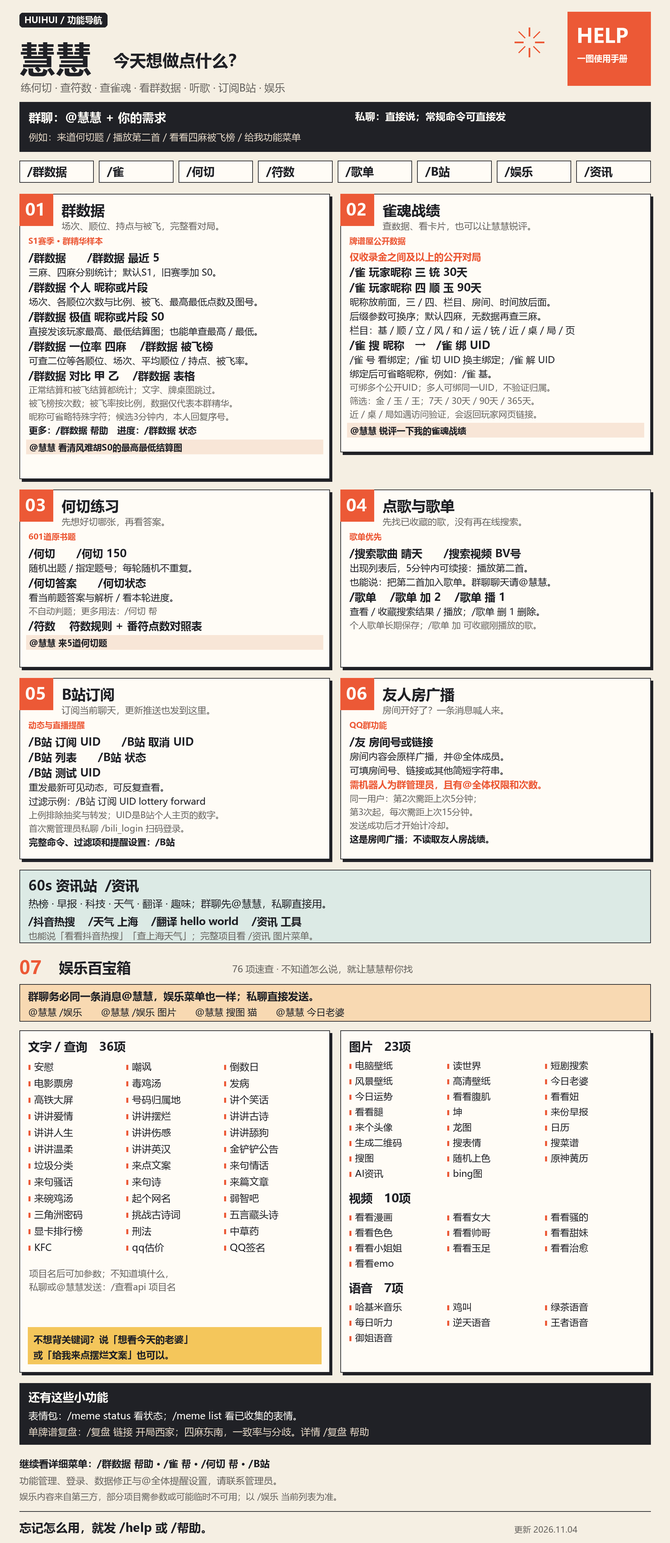
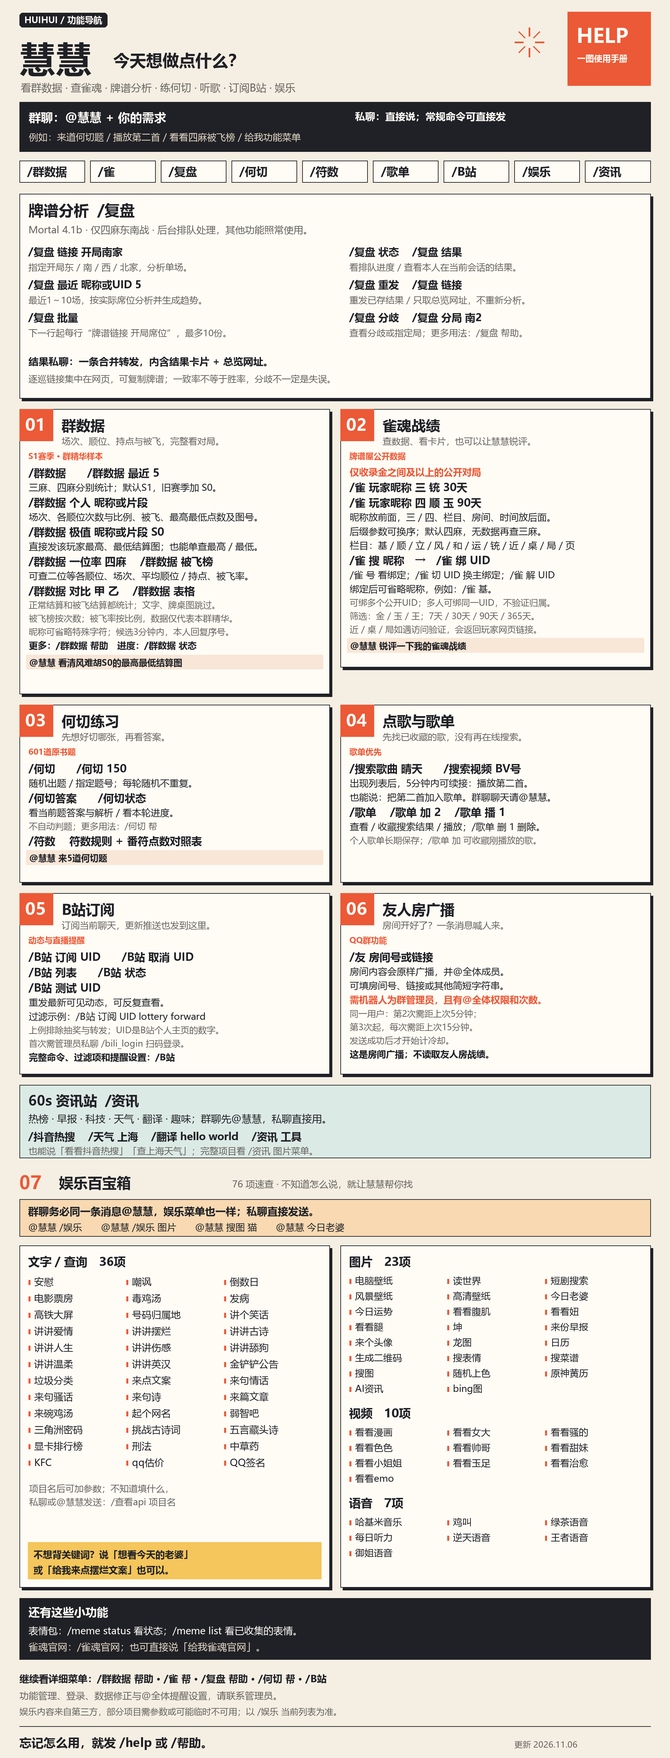
feat: unify single replay delivery and update help poster

diff --git a/replay_pages.py b/replay_pages.py
@@ -9,6 +9,13 @@ from .replay_core import ReplayError,summarize,report_url,hand_name
 def esc(value):return html.escape(str(value),quote=True)
 def stamp(value):return datetime.fromtimestamp(value,timezone(timedelta(hours=8))).strftime('%Y-%m-%d %H:%M') if value else '手动提供的牌谱'
 
+def single_batch(job):
+    """Expose one existing job without creating a batch or changing queue state."""
+    return {'id':job['id'],'scope':job['scope'],'actor':job['actor'],'single':True,
+            'label':'单牌谱复盘','ordered_by':'provided','items':[{**job,'position':1,'metadata':'{}'}],
+            'pending':int(job['status'] in ('queued','running')),'done':int(job['status']=='done'),
+            'failed':int(job['status'] not in ('queued','running','done'))}
+
 STYLE='''*{box-sizing:border-box}body{margin:0;background:#101821;color:#edf2f7;font:16px/1.6 system-ui,"Microsoft YaHei",sans-serif}main{max-width:1100px;margin:auto;padding:32px 20px 60px}header,.panel,.game{background:#1d2b38;border:1px solid #2c4050;border-radius:20px;padding:24px;margin-bottom:20px}small,.muted{color:#a1b3c5}h1{margin:5px 0 12px;font-size:30px}h2{font-size:21px;margin:0 0 12px}h3{font-size:18px;margin:0}a{color:#53d6cb;text-decoration:none}a:hover{text-decoration:underline}.badge{display:inline-block;padding:4px 12px;border-radius:20px;background:#263e4b;color:#53d6cb}.stats{display:grid;grid-template-columns:repeat(3,1fr);gap:14px;margin-top:20px}.metric{padding:14px 18px;background:#14212c;border-radius:12px}.metric b{display:block;color:#53d6cb;font-size:30px}.chart{width:100%;height:auto}.game-top{display:flex;justify-content:space-between;gap:20px;align-items:start}.rate{font-size:32px;color:#ffcc7a;white-space:nowrap}.actions{display:flex;gap:12px;flex-wrap:wrap;margin-top:15px}.button{display:inline-block;padding:9px 16px;background:#294453;border-radius:10px}.button.primary{background:#53d6cb;color:#101821;font-weight:700}table{width:100%;border-collapse:collapse;font-size:14px}th,td{text-align:left;border-bottom:1px solid #344755;padding:9px 7px}details{margin-top:20px}summary{cursor:pointer;color:#53d6cb}.scroll{overflow:auto}.decision{padding:12px 0;border-bottom:1px solid #344755}footer{font-size:13px;color:#a1b3c5}@media(max-width:600px){main{padding:16px 12px 35px}header,.panel,.game{padding:18px;border-radius:15px}.stats{gap:8px}.metric{padding:10px}.metric b{font-size:23px}h1{font-size:25px}.game-top{gap:8px}.rate{font-size:26px}}'''
 
 STYLE+='''button.button{font:inherit;border:0;color:#53d6cb;cursor:pointer}button.button:focus-visible{outline:2px solid #ffcc7a;outline-offset:3px}textarea.copy-value{width:100%;min-height:100px;resize:vertical;background:#14212c;color:#edf2f7;border:1px solid #53d6cb;border-radius:8px;padding:12px;font:inherit;word-break:break-all}#copy-status{position:fixed;bottom:22px;left:50%;transform:translateX(-50%);padding:10px 18px;background:#294453;border-radius:10px;max-width:90%;z-index:10}#copy-status:empty{display:none}[hidden]{display:none!important}'''
@@ -56,10 +63,15 @@ COPY_SCRIPT_HASH=base64.b64encode(hashlib.sha256(COPY_SCRIPT.encode('utf-8')).di
 
 def render_page(batch,data,reports):
     games=data['games'];title=data.get('label') or '多牌谱复盘'
+    single=batch.get('single',False)
+    if single and games and games[0].get('nickname'):title+=' · '+str(games[0]['nickname'])
     rate=f"{data['accordance']:.2%}" if data['accordance'] is not None else '等待结果'
     refresh='<meta http-equiv="refresh" content="30">' if data['pending'] else ''
     chunks=[f'<!doctype html><html lang="zh-CN"><head><meta charset="utf-8"><meta name="viewport" content="width=device-width,initial-scale=1"><title>{esc(title)} · 慧慧复盘</title>{refresh}<style>{STYLE}</style></head><body><main>']
-    chunks.append(f'<header><span class="badge">Mortal 4.1b</span><h1>{esc(title)}</h1><small>批次 {esc(batch["id"])} · 四麻东南战 · '+('按对局时间从早到晚' if data.get('ordered_by')=='time' else '按链接提交顺序')+f'</small><div class="stats"><div class="metric">汇总一致率<b>{rate}</b></div><div class="metric">分析完成<b>{data["done"]}/{len(games)}</b></div><div class="metric">评估决策<b>{data["total"]}</b></div></div><p class="muted">一致 {data["matches"]} / 评估 {data["total"]}；等待 {data["pending"]}，未完成 {data["failed"]}。汇总按评估决策数加权。</p></header>')
+    owner_label='任务' if single else '批次'
+    rate_label='AI一致率' if single else '汇总一致率'
+    order_label='单场完整报告' if single else ('按对局时间从早到晚' if data.get('ordered_by')=='time' else '按链接提交顺序')
+    chunks.append(f'<header><span class="badge">Mortal 4.1b</span><h1>{esc(title)}</h1><small>{owner_label} {esc(batch["id"])} · 四麻东南战 · '+order_label+f'</small><div class="stats"><div class="metric">{rate_label}<b>{rate}</b></div><div class="metric">分析完成<b>{data["done"]}/{len(games)}</b></div><div class="metric">评估决策<b>{data["total"]}</b></div></div><p class="muted">一致 {data["matches"]} / 评估 {data["total"]}；等待 {data["pending"]}，未完成 {data["failed"]}。'+('' if single else '汇总按评估决策数加权。')+'</p></header>')
     svg=['<svg class="chart" viewBox="0 0 1000 285" role="img" aria-label="逐场一致率趋势">'];previous=None
     for n in (0,25,50,75,100):
         y=230-n*2;svg.append(f'<line x1="55" y1="{y}" x2="970" y2="{y}" stroke="#344755"/><text x="8" y="{y+5}" fill="#a1b3c5" font-size="16">{n}%</text>')
@@ -69,7 +81,7 @@ def render_page(batch,data,reports):
         y=230-g['accordance']*200
         if previous:svg.append(f'<line x1="{previous[0]}" y1="{previous[1]}" x2="{x}" y2="{y}" stroke="#53d6cb" stroke-width="4"/>')
         svg.append(f'<circle cx="{x}" cy="{y}" r="6" fill="#ffcc7a"/><text x="{x}" y="{y-13}" text-anchor="middle" fill="#edf2f7" font-size="16">{g["accordance"]:.1%}</text>');previous=x,y
-    chunks.append('<section class="panel"><h2>逐场一致率趋势</h2>'+''.join(svg)+'</svg><small>横轴序号与下方对局一致；各场完整详情可展开查看。</small></section>')
+    if not single:chunks.append('<section class="panel"><h2>逐场一致率趋势</h2>'+''.join(svg)+'</svg><small>横轴序号与下方对局一致；各场完整详情可展开查看。</small></section>')
     statuses={'queued':'排队中','running':'正在分析','failed':'未完成','cancelled':'已取消','manual':'等待验证'}
     for g,job in zip(games,batch['items']):
         number=g['position'];rating=f'{g["accordance"]:.2%}' if 'accordance' in g else statuses.get(g['status'],g['status'])
@@ -84,7 +96,7 @@ def render_page(batch,data,reports):
         chunks.append(f'<noscript><details><summary>手动复制牌谱</summary><textarea class="copy-value" readonly aria-label="完整牌谱链接">{esc(g["url"])}</textarea></details></noscript>')
         report=reports.get(g['job_id'])
         if report:
-            chunks.append('<details><summary>展开分局数据与重点决策</summary><div class="scroll"><table><thead><tr><th>局数</th><th>一致 / 评估</th><th>一致率</th></tr></thead><tbody>')
+            chunks.append('<details'+(' open' if single else '')+'><summary>展开分局数据与重点决策</summary><div class="scroll"><table><thead><tr><th>局数</th><th>一致 / 评估</th><th>一致率</th></tr></thead><tbody>')
             for h in report['hands']:
                 value=f"{h['matches']/h['total']:.1%}" if h['total'] else '—'
                 chunks.append(f'<tr><td>{esc(hand_name(h["kyoku"],h["honba"]))}</td><td>{h["matches"]} / {h["total"]}</td><td>{value}</td></tr>')
@@ -131,13 +143,16 @@ class ReplayPages:
             token=row[0] if row else secrets.token_hex(20)
             if not row:db.execute('INSERT INTO replay_pages VALUES(?,?,?,?,?)',(token,batch['id'],batch['scope'],batch['actor'],time.time()))
         return self.public_url+'/r/'+token
+    def single_link(self,job):return self.link(single_batch(job))
     def page(self,token):
         with self.store.db() as db:row=db.execute('SELECT * FROM replay_pages WHERE token=?',(token,)).fetchone()
         if not row:raise KeyError(token)
         with self.lock:
             cached=self.cache.get(token)
             if cached and time.monotonic()-cached[0]<10:return cached[1]
-            batch=self.batches.get(row['scope'],row['actor'],row['owner']);data=self.batches.summary(batch);reports={}
+            if row['owner'].startswith('B'):batch=self.batches.get(row['scope'],row['actor'],row['owner'])
+            else:batch=single_batch(self.store.get(row['scope'],row['actor'],row['owner']))
+            data=self.batches.summary(batch);reports={}
             for job in batch['items']:
                 if job['status']=='done':reports[job['id']]=summarize(json.loads(Path(job['report_path']).read_text(encoding='utf-8')),job['seat'])
             content=render_page(batch,data,reports)

diff --git a/tools/build_user_help.py b/tools/build_user_help.py
@@ -8,7 +8,15 @@ from PIL import Image,ImageDraw,ImageFont
 ROOT=Path(__file__).resolve().parents[1]
 W=2000;M=58;GAP=32;CW=(W-M*2-GAP)//2
 PAPER='#F5EFE3';INK='#202126';ORANGE='#EC5936';MUTED='#66635F';LINE='#D8CFC0';WHITE='#FFFCF6';GOLD='#F4C65B'
-EDITION='2026.11.04'
+EDITION='2026.11.06'
+REPLAY_GUIDE=[
+ [('cmd','/复盘 链接 开局南家'),('small','指定开局东 / 南 / 西 / 北家，分析单场。'),
+  ('cmd','/复盘 最近 昵称或UID 5'),('small','最近1～10场，按实际席位分析并生成趋势。'),
+  ('cmd','/复盘 批量'),('small','下一行起每行“牌谱链接 开局席位”，最多10份。')],
+ [('cmd','/复盘 状态　 /复盘 结果'),('small','看排队进度 / 查看本人在当前会话的结果。'),
+  ('cmd','/复盘 重发　 /复盘 链接'),('small','重发已存结果 / 只取总览网址，不重新分析。'),
+  ('cmd','/复盘 分歧　 /复盘 分局 南2'),('small','查看分歧或指定局；更多用法：/复盘 帮助。')],
+]
 MODULES=[
  {'id':'01','title':'群数据','tag':'S1赛季 · 群精华样本','subtitle':'场次、顺位、持点与被飞，完整看对局。','height':850,'lines':[
   ('cmd','/群数据　　/群数据 最近 5'),
@@ -140,11 +148,11 @@ class Poster:
 
 
 def render(path,catalog_path=None):
- c=load_catalog(catalog_path);total=sum(len(c[k]) for k in ('text','image','video','audio'));p=Poster(4800);d=p.d
+ c=load_catalog(catalog_path);total=sum(len(c[k]) for k in ('text','image','video','audio'));p=Poster(5600);d=p.d
  # Editorial cover with a drawn magic burst: type stays crisp at original size.
  p.pill(M,38,'HUIHUI / 功能导航',WHITE,INK,26)
  p.text(M,100,'慧慧',108,True,width=650);p.text(M+280,146,'今天想做点什么？',49,True,width=1000)
- p.text(M+4,240,'练何切 · 查符数 · 查雀魂 · 看群数据 · 听歌 · 订阅B站 · 娱乐',31,color=MUTED,width=1600)
+ p.text(M+4,240,'看群数据 · 查雀魂 · 牌谱分析 · 练何切 · 听歌 · 订阅B站 · 娱乐',31,color=MUTED,width=1600)
  d.rectangle((1694,35,1942,255),fill=ORANGE)
  p.text(1721,64,'HELP',60,True,WHITE,width=200);p.text(1723,156,'一图使用手册',25,True,WHITE,width=200)
  # Star / rays are decoration rather than an image-generated character.
@@ -155,11 +163,22 @@ def render(path,catalog_path=None):
  p.text(M+28,324,'群聊：@慧慧 + 你的需求',36,True,WHITE,width=900)
  p.text(1060,326,'私聊：直接说；常规命令可直接发',30,True,WHITE,width=850)
  p.text(M+28,389,'例如：来道何切题 / 播放第二首 / 看看四麻被飞榜 / 给我功能菜单',28,color='#E6D9C8',width=1800)
- commands=['/群数据','/雀','/何切','/符数','/歌单','/B站','/娱乐','/资讯']
+ commands=['/群数据','/雀','/复盘','/何切','/符数','/歌单','/B站','/娱乐','/资讯']
  qw=(W-2*M-(len(commands)-1)*16)/len(commands)
  for i,s in enumerate(commands):
   x=M+i*(qw+16);d.rectangle((x,479,x+qw,544),fill=WHITE,outline=INK,width=2);p.text(x+24,488,s,34,True,width=qw-40)
  y=578
+ p.panel(M,y,W-2*M,610)
+ p.text(M+27,y+18,'牌谱分析  /复盘',45,True,width=1200)
+ p.text(M+27,y+87,'Mortal 4.1b · 仅四麻东南战 · 后台排队处理，其他功能照常使用。',29,color=MUTED,width=1800)
+ for column,lines in enumerate(REPLAY_GUIDE):
+  x=M+27+column*(CW+GAP);yy=y+151
+  for kind,line in lines:
+   p.text(x,yy,line,31 if kind=='cmd' else 27,kind=='cmd',INK if kind=='cmd' else MUTED,width=CW-54)
+   yy+=49
+ p.text(M+27,y+479,'结果私聊：一条合并转发，内含结果卡片 + 总览网址。',30,True,width=1800)
+ p.text(M+27,y+533,'逐巡链接集中在网页，可复制牌谱；一致率不等于胜率，分歧不一定是失误。',27,color=MUTED,width=1800)
+ y+=642
  for i in range(0,len(MODULES),2):
   p.module(M,y,MODULES[i]);p.module(M+CW+GAP,y,MODULES[i+1]);y+=max(MODULES[i]['height'],MODULES[i+1]['height'])+32
  # New 60s catalog is a separate current menu; the original entertainment catalog stays readable.
@@ -194,9 +213,9 @@ def render(path,catalog_path=None):
  d.rectangle((M,y,W-M,y+183),fill=INK)
  p.text(M+27,y+18,'还有这些小功能',34,True,WHITE,width=700)
  p.text(M+27,y+77,'表情包：/meme status 看状态；/meme list 看已收集的表情。',29,color=WHITE,width=1800)
- p.text(M+27,y+125,'单牌谱复盘：/复盘 链接 开局西家；四麻东南，一致率与分歧。详情 /复盘 帮助',29,color='#E6D9C8',width=1800)
+ p.text(M+27,y+125,'雀魂官网：/雀魂官网；也可直接说「给我雀魂官网」。',29,color='#E6D9C8',width=1800)
  y+=220
- p.text(M,y,'继续看详细菜单：/群数据 帮助 · /雀 帮 · /何切 帮 · /B站',29,True,width=1850)
+ p.text(M,y,'继续看详细菜单：/群数据 帮助 · /雀 帮 · /复盘 帮助 · /何切 帮 · /B站',29,True,width=1850)
  p.text(M,y+51,'功能管理、登录、数据修正与@全体提醒设置，请联系管理员。',28,color=MUTED,width=1850)
  p.text(M,y+100,'娱乐内容来自第三方，部分项目需参数或可能临时不可用；以 /娱乐 当前列表为准。',26,color=MUTED,width=1850)
  d.line((M,y+162,W-M,y+162),fill=INK,width=2)
@@ -210,13 +229,17 @@ def render(path,catalog_path=None):
 
 def write_manual(path,catalog_path=None):
  c=load_catalog(catalog_path);lines=['# 慧慧功能使用手册','',f'更新：{EDITION}。群聊自然语言请求请@慧慧，私聊直接说；普通命令可直接发。娱乐命令和菜单在群聊也要@慧慧。','']
+ lines+=['## 牌谱分析','','Mortal 4.1b，仅支持四麻东南战。后台排队，其他功能照常使用。','']
+ for column in REPLAY_GUIDE:
+  lines += [('- `'+line+'`') if kind=='cmd' else '- '+line for kind,line in column]
+ lines+=['','单场和批量结果均私聊发送合并转发，内含卡片与总览网址。网页可查看逐巡入口、分局和重点决策，并复制原始牌谱。一致率不等于胜率，分歧不一定是失误。','']
  for item in MODULES:
   lines += ['## '+item['title'],'',item['subtitle'],'']+[('- `'+line+'`') if kind=='cmd' else '- '+line for kind,line in item['lines']]
   if item['example']:lines += ['',item['example']]
   lines += ['']
  lines+=['## 60s资讯站','','群聊先@慧慧，私聊直接发送。`/资讯` 查看完整图片菜单；`/资讯 热榜`、`/资讯 工具` 可分类查看。例：`/抖音热搜`、`/天气 上海`、`/翻译 hello world`。也可以自然语言请求。仅启用服务器实测通过的项目，故障接口不替换原功能。','','## 娱乐百宝箱','','群聊使用：`@慧慧 /娱乐`、`@慧慧 /娱乐 图片`；私聊可省略@。项目名后可带参数，如 `@慧慧 搜图 猫`。']
  for key,label in [('text','文字'),('image','图片'),('video','视频'),('audio','语音')]:lines+=['','### '+label,'','、'.join(c[key])+'。']
- lines+=['','项目来自第三方，部分项目需参数或可能临时不可用；以 `/娱乐` 当前列表为准。','', '## 其他功能','','表情包：`/meme status` 查看状态，`/meme list` 查看已收集表情。','','单牌谱复盘：`/复盘 链接 开局西家`，支持四麻东南战的一致率、分歧与分局卡片；`/复盘 帮助` 查看用法。在线自动提交可能需要人工验证，支持导入报告链接。','','帮助：`/help` 或 `/帮助`。']
+ lines+=['','项目来自第三方，部分项目需参数或可能临时不可用；以 `/娱乐` 当前列表为准。','', '## 其他功能','','表情包：`/meme status` 查看状态，`/meme list` 查看已收集表情。','','雀魂官网：`/雀魂官网`。','','帮助：`/help` 或 `/帮助`。']
  Path(path).write_text('\n'.join(lines)+'\n',encoding='utf8')
 
 if __name__=='__main__':

diff --git a/tests/test_replay_single_page.py b/tests/test_replay_single_page.py
@@ -1,0 +1,98 @@
+import json,re,tempfile,unittest,urllib.request
+from pathlib import Path
+import astrbot.api.message_components as Comp
+from astrbot_plugin_mahjong_helper.replay_core import parse_url
+from astrbot_plugin_mahjong_helper.replay_delivery import split_result
+from astrbot_plugin_mahjong_helper.replay_bridge import ReplayService
+from astrbot_plugin_mahjong_helper.replay_pages import ReplayPages
+from test_replay import fixture
+from test_replay_queue import Context,Request
+
+
+def forward_text(chain):
+    return '\n'.join(p.text for node in chain.chain[0].nodes for p in node.content if isinstance(p,Comp.Plain))
+
+
+class SinglePageTests(unittest.IsolatedAsyncioTestCase):
+    def service(self,folder):
+        service=ReplayService(Context(),folder)
+        event=Request('10001',None)
+        source=parse_url('https://game.maj-soul.com/1/?paipu=abcdefghijklmnop');source['seat']=1
+        job,_=service.store.create(event.unified_msg_origin,event.actor,source,'private')
+        service.store.complete(job,fixture())
+        service.store.update(job['id'],remote_task='953bc4e73316d17b')
+        job=service.store.get(event.unified_msg_origin,event.actor,job['id'])
+        pages=ReplayPages(service.store,service.batches,'http://127.0.0.1:6192',0,'127.0.0.1')
+        pages.start();service.pages=pages
+        return service,event,job
+
+    async def test_single_views_send_one_forward_and_one_stable_page_url(self):
+        with tempfile.TemporaryDirectory() as folder:
+            service,event,job=self.service(folder)
+            try:
+                links=[]
+                for view,hand in [('result',None),('differences',None),('hand',0)]:
+                    chain=service.result_chain(job,view,hand)
+                    self.assertEqual(len(split_result(chain)),1)
+                    self.assertIsInstance(chain.chain[0],Comp.Nodes)
+                    text=forward_text(chain);urls=re.findall(r'https?://\S+',text)
+                    self.assertEqual(len(urls),1);self.assertIn('/r/',urls[0]);links+=urls
+                    self.assertNotIn('输入链接',text)
+                    self.assertNotIn('killerducky',text)
+                    self.assertTrue(any(isinstance(p,Comp.Image) for n in chain.chain[0].nodes for p in n.content))
+                self.assertEqual(len(set(links)),1)
+                await service.notify(job)
+                self.assertEqual(len(service.context.sent),1)
+                await service.handle(event,'重发 '+job['id'])
+                self.assertEqual(len(event.sent),1)
+                self.assertEqual(re.findall(r'https?://\S+',forward_text(event.sent[0])),links[:1])
+                await service.handle(event,'链接 '+job['id'])
+                self.assertEqual(event.sent[-1].get_plain_text(),links[0])
+                with service.store.db() as db:
+                    self.assertEqual(db.execute('SELECT count(*) FROM replay_batches').fetchone()[0],0)
+                    self.assertEqual(db.execute('SELECT count(*) FROM jobs').fetchone()[0],1)
+            finally:
+                service.pages.close()
+
+    async def test_single_page_contains_details_copy_and_owned_job_without_new_batch(self):
+        with tempfile.TemporaryDirectory() as folder:
+            service,event,job=self.service(folder)
+            try:
+                url=service.pages.single_link(job)
+                token=url.rsplit('/',1)[1]
+                opener=urllib.request.build_opener(urllib.request.ProxyHandler({}))
+                with opener.open('http://127.0.0.1:'+str(service.pages.server.server_port)+'/r/'+token) as response:
+                    html=response.read().decode()
+                self.assertIn('单牌谱复盘 · 乙',html)
+                self.assertIn('任务 '+job['id'],html)
+                self.assertIn('<details open>',html)
+                self.assertIn('data-copy-replay="'+job['url']+'"',html)
+                self.assertIn('打开本场逐巡复盘',html)
+                self.assertIn('第2巡',html.replace(' ',''))
+                self.assertNotIn('逐场一致率趋势',html)
+                self.assertNotIn('原始牌谱 ↗',html)
+                self.assertEqual(url,service.pages.single_link(job))
+                with service.store.db() as db:
+                    db.execute('UPDATE replay_pages SET actor=? WHERE token=?',('someone-else',token))
+                service.pages.cache.clear()
+                from astrbot_plugin_mahjong_helper.replay_core import ReplayError
+                with self.assertRaises(ReplayError):service.pages.page(token)
+            finally:
+                service.pages.close()
+
+    async def test_web_unavailable_still_keeps_one_forward_and_no_link_flood(self):
+        with tempfile.TemporaryDirectory() as folder:
+            service,event,job=self.service(folder)
+            try:
+                pages=service.pages;service.pages=None
+                chain=service.result_chain(job)
+                self.assertEqual(len(split_result(chain)),1)
+                text=forward_text(chain)
+                self.assertEqual(len(re.findall(r'https?://\S+',text)),1)
+                self.assertIn('完整逐巡',text)
+                self.assertNotIn('输入链接',text)
+            finally:
+                pages.close()
+
+
+if __name__=='__main__':unittest.main()

diff --git a/replay_bridge.py b/replay_bridge.py
@@ -28,7 +28,8 @@ HELP='''🀄 单牌谱复盘（四麻东南战）
 /复盘 分歧　/复盘 分局 南2
 /复盘 取消　/复盘 重试
 /复盘 重发：重新发送已保存结果，不重新分析。
-/复盘 链接　/复盘 原谱：分别查看报告链接、原始牌谱。
+/复盘 链接　/复盘 原谱：分别查看总览网页、原始牌谱。
+单场和批量结果均合并转发；逐巡入口集中在网页，原谱可点击复制。
 以上默认本人在当前会话的最近任务，也可在末尾加任务编号。
 /复盘 Mortal报告链接：导入在线站生成的报告。
 /复盘 批量：下一行起每行“牌谱链接 开局西家”；最多10份。
@@ -142,7 +143,8 @@ class ReplayService:
                     result=json.loads(job['result_json']);batch=await asyncio.to_thread(self.batches.get,scope,actor,result['batch_id'])
                     await self.deliver_result(event,batch,await asyncio.to_thread(self.batch_chain,batch));return
                 if action=='links':
-                    await self.reply(event,event.plain_result(report_url(job) or job['url']));return
+                    url=await asyncio.to_thread(self.pages.single_link,job) if self.pages else report_url(job) or job['url']
+                    await self.reply(event,event.plain_result(url));return
                 if action=='hand' and request['hand'] is None:raise ReplayError('请指定局数，例如 /复盘 分局 南2。')
                 await self.send_result(event,job,'result' if action=='resend' else action,request['hand']);return
             await self.reply(event,event.plain_result(await self.describe(job)))
@@ -171,14 +173,16 @@ class ReplayService:
         data=summarize(report,job['seat'])
         if hand is not None and not any(h['kyoku']==hand for h in data['hands']):raise ReplayError('这份牌谱没有该局，请先查看总览里的分局列表。')
         card=render_replay_card(data,self.store.folder/'cards'/f"{job['id']}-{view}-{hand}.png",job['id'],view,hand)
-        chain=MessageChain().message(f"🀄 复盘 #{job['id']}\nMortal {data['model']} · 一致率 {data['accordance']:.2%}（{data['matches']}/{data['total']}）\n").file_image(str(card))
-        if TASK_RE.fullmatch(str(job.get('remote_task',''))):
-            chain.message('\n完整逐巡复盘：'+report_url(job))
-            differences=[d for d in data['differences'] if hand is None or d['kyoku']==hand][:8 if view!='result' else 3]
-            for d in differences:
-                chain.message(f"\n{hand_name(d['kyoku'],d['honba'])} 第{d['turn']}巡："+report_url(job,d['hand_index'],d['ply']))
-        chain.message('\n输入链接：'+job['url'])
-        return chain
+        message=f"🀄 单牌谱复盘 #{job['id']}\nMortal {data['model']} · 一致率 {data['accordance']:.2%}（{data['matches']}/{data['total']}）"
+        if self.pages:
+            message+='\n\n查看完整报告：\n'+self.pages.single_link(job)+'\n\n网页包含分局数据、重点决策与逐巡复盘入口，可直接复制牌谱。'
+        else:
+            url=report_url(job)
+            message+='\n\n'+('完整逐巡复盘：\n'+url if url else '总览网页暂不可用，分析结果已保存。')
+        message+='\n重新发送：/复盘 重发'
+        nodes=[Comp.Node(content=[Comp.Plain(message)],uin=self.bot_uin,name='慧慧 · 单牌谱复盘'),
+               Comp.Node(content=MessageChain().file_image(str(card)).chain,uin=self.bot_uin,name='慧慧 · 复盘结果')]
+        return MessageChain(chain=[Comp.Nodes(nodes)])
 
     def batch_chain(self,batch):
         data=self.batches.summary(batch);path=render_batch_card(data,self.store.folder/'cards'/(batch['id']+'.png'))

diff --git a/tests/test_replay_queue.py b/tests/test_replay_queue.py
@@ -55,19 +55,20 @@ class ReplayQueueTests(unittest.IsolatedAsyncioTestCase):
             try:
                 await service.started.wait();self.assertEqual(service.store.queue_info(ids[1])['ahead'],1)
                 self.assertEqual(context.sent,[]);service.release.set()
-                await until(lambda:len(context.sent)==6)
+                await until(lambda:len(context.sent)==3)
                 self.assertEqual(service.order,ids);self.assertEqual(service.peak,1)
-                expected=[('napcat:FriendMessage:'+event.actor) for event in events for _ in range(2)]
+                expected=[('napcat:FriendMessage:'+event.actor) for event in events]
                 self.assertEqual([scope for scope,_ in context.sent],expected)
-                for (_,chain),event in zip(context.sent[::2],events):
+                for (_,chain),event in zip(context.sent,events):
                     mentions=[str(p.qq) for p in chain.chain if isinstance(p,Comp.At)]
                     self.assertEqual(mentions,[])
-                    self.assertTrue(any(isinstance(p,Comp.Image) for p in chain.chain))
-                await asyncio.sleep(.1);self.assertEqual(len(context.sent),6)
+                    self.assertIsInstance(chain.chain[0],Comp.Nodes)
+                    self.assertTrue(any(isinstance(p,Comp.Image) for n in chain.chain[0].nodes for p in n.content))
+                await asyncio.sleep(.1);self.assertEqual(len(context.sent),3)
                 # Immediate cached results from a group are also delivered privately.
                 await service.handle(group,'https://game.maj-soul.com/1/?paipu=abcdefghijklmnop0 南家')
-                self.assertEqual(context.sent[-2][0],'napcat:FriendMessage:'+group.actor)
-                self.assertFalse(any(isinstance(p,Comp.At) for p in context.sent[-2][1].chain))
+                self.assertEqual(context.sent[-1][0],'napcat:FriendMessage:'+group.actor)
+                self.assertFalse(any(isinstance(p,Comp.At) for p in context.sent[-1][1].chain))
             finally:
                 task.cancel()
                 with suppress(asyncio.CancelledError):await task
@@ -97,7 +98,7 @@ class ReplayQueueTests(unittest.IsolatedAsyncioTestCase):
                     self.assertIn('雀魂快捷查询',menu[0].get_plain_text());self.assertIn('晴天',song.sent[0].get_plain_text())
                     self.assertLess(time.monotonic()-begin,.5)
                     self.assertIsNotNone(service.process);self.assertIsNone(service.process.returncode)
-                    await until(lambda:len(context.sent)==2)
+                    await until(lambda:len(context.sent)==1)
                     self.assertEqual(context.sent[0][0],'napcat:FriendMessage:'+event.actor)
                     self.assertFalse(any(isinstance(p,Comp.At) for p in context.sent[0][1].chain))
                 finally:

diff --git a/docs/慧慧使用手册.md b/docs/慧慧使用手册.md
@@ -1,6 +1,25 @@
 # 慧慧功能使用手册
 
-更新：2026.11.04。群聊自然语言请求请@慧慧，私聊直接说；普通命令可直接发。娱乐命令和菜单在群聊也要@慧慧。
+更新：2026.11.06。群聊自然语言请求请@慧慧，私聊直接说；普通命令可直接发。娱乐命令和菜单在群聊也要@慧慧。
+
+## 牌谱分析
+
+Mortal 4.1b，仅支持四麻东南战。后台排队，其他功能照常使用。
+
+- `/复盘 链接 开局南家`
+- 指定开局东 / 南 / 西 / 北家，分析单场。
+- `/复盘 最近 昵称或UID 5`
+- 最近1～10场，按实际席位分析并生成趋势。
+- `/复盘 批量`
+- 下一行起每行“牌谱链接 开局席位”，最多10份。
+- `/复盘 状态　 /复盘 结果`
+- 看排队进度 / 查看本人在当前会话的结果。
+- `/复盘 重发　 /复盘 链接`
+- 重发已存结果 / 只取总览网址，不重新分析。
+- `/复盘 分歧　 /复盘 分局 南2`
+- 查看分歧或指定局；更多用法：/复盘 帮助。
+
+单场和批量结果均私聊发送合并转发，内含卡片与总览网址。网页可查看逐巡入口、分局和重点决策，并复制原始牌谱。一致率不等于胜率，分歧不一定是失误。
 
 ## 群数据
 
@@ -121,6 +140,6 @@
 
 表情包：`/meme status` 查看状态，`/meme list` 查看已收集表情。
 
-单牌谱复盘：`/复盘 链接 开局西家`，支持四麻东南战的一致率、分歧与分局卡片；`/复盘 帮助` 查看用法。在线自动提交可能需要人工验证，支持导入报告链接。
+雀魂官网：`/雀魂官网`。
 
 帮助：`/help` 或 `/帮助`。

diff --git a/docs/单牌谱复盘.md b/docs/单牌谱复盘.md
@@ -16,7 +16,7 @@
 
 任务提交后立即回复编号和前方任务数，按提交顺序在后台排队。群聊发起的进度与结果通过私聊/群临时会话发送给本人，不再在群里@；私聊发起的任务仍回复原私聊。没有必要反复发相同链接。
 
-消息会同时附上原始输入链接、完整逐巡复盘链接，以及卡片中各分歧的具体定位链接，点击可直接进入对应本场和决策。官方报告链接通常保留15天；机器人会另外保存报告与卡片。
+单牌谱和批量结果统一发送一条合并转发，内含结果卡片与一个总览网址。原始牌谱、完整逐巡报告和各分歧定位入口集中在网页，聊天中不再拆开发送多条链接。单牌谱页面直接展开分局及重点决策；`/复盘 链接` 也会返回该总览网址。网页服务暂不可用时，合并转发保留卡片和一个完整逐巡入口。官方报告链接通常保留15天；机器人会另外保存报告与卡片。
 
 排队和分析期间，何切、群数据、娱乐、点歌等其他入口继续处理，不需要等复盘完成。默认串行处理；新版电脑工作端与服务器同时开启流水线后，浏览器仍逐份提交，但已提交的报告可在后台等待、回传，减少前后场次之间的空等。取消任务不会影响其他功能，重试任务重新排到队尾。
 
